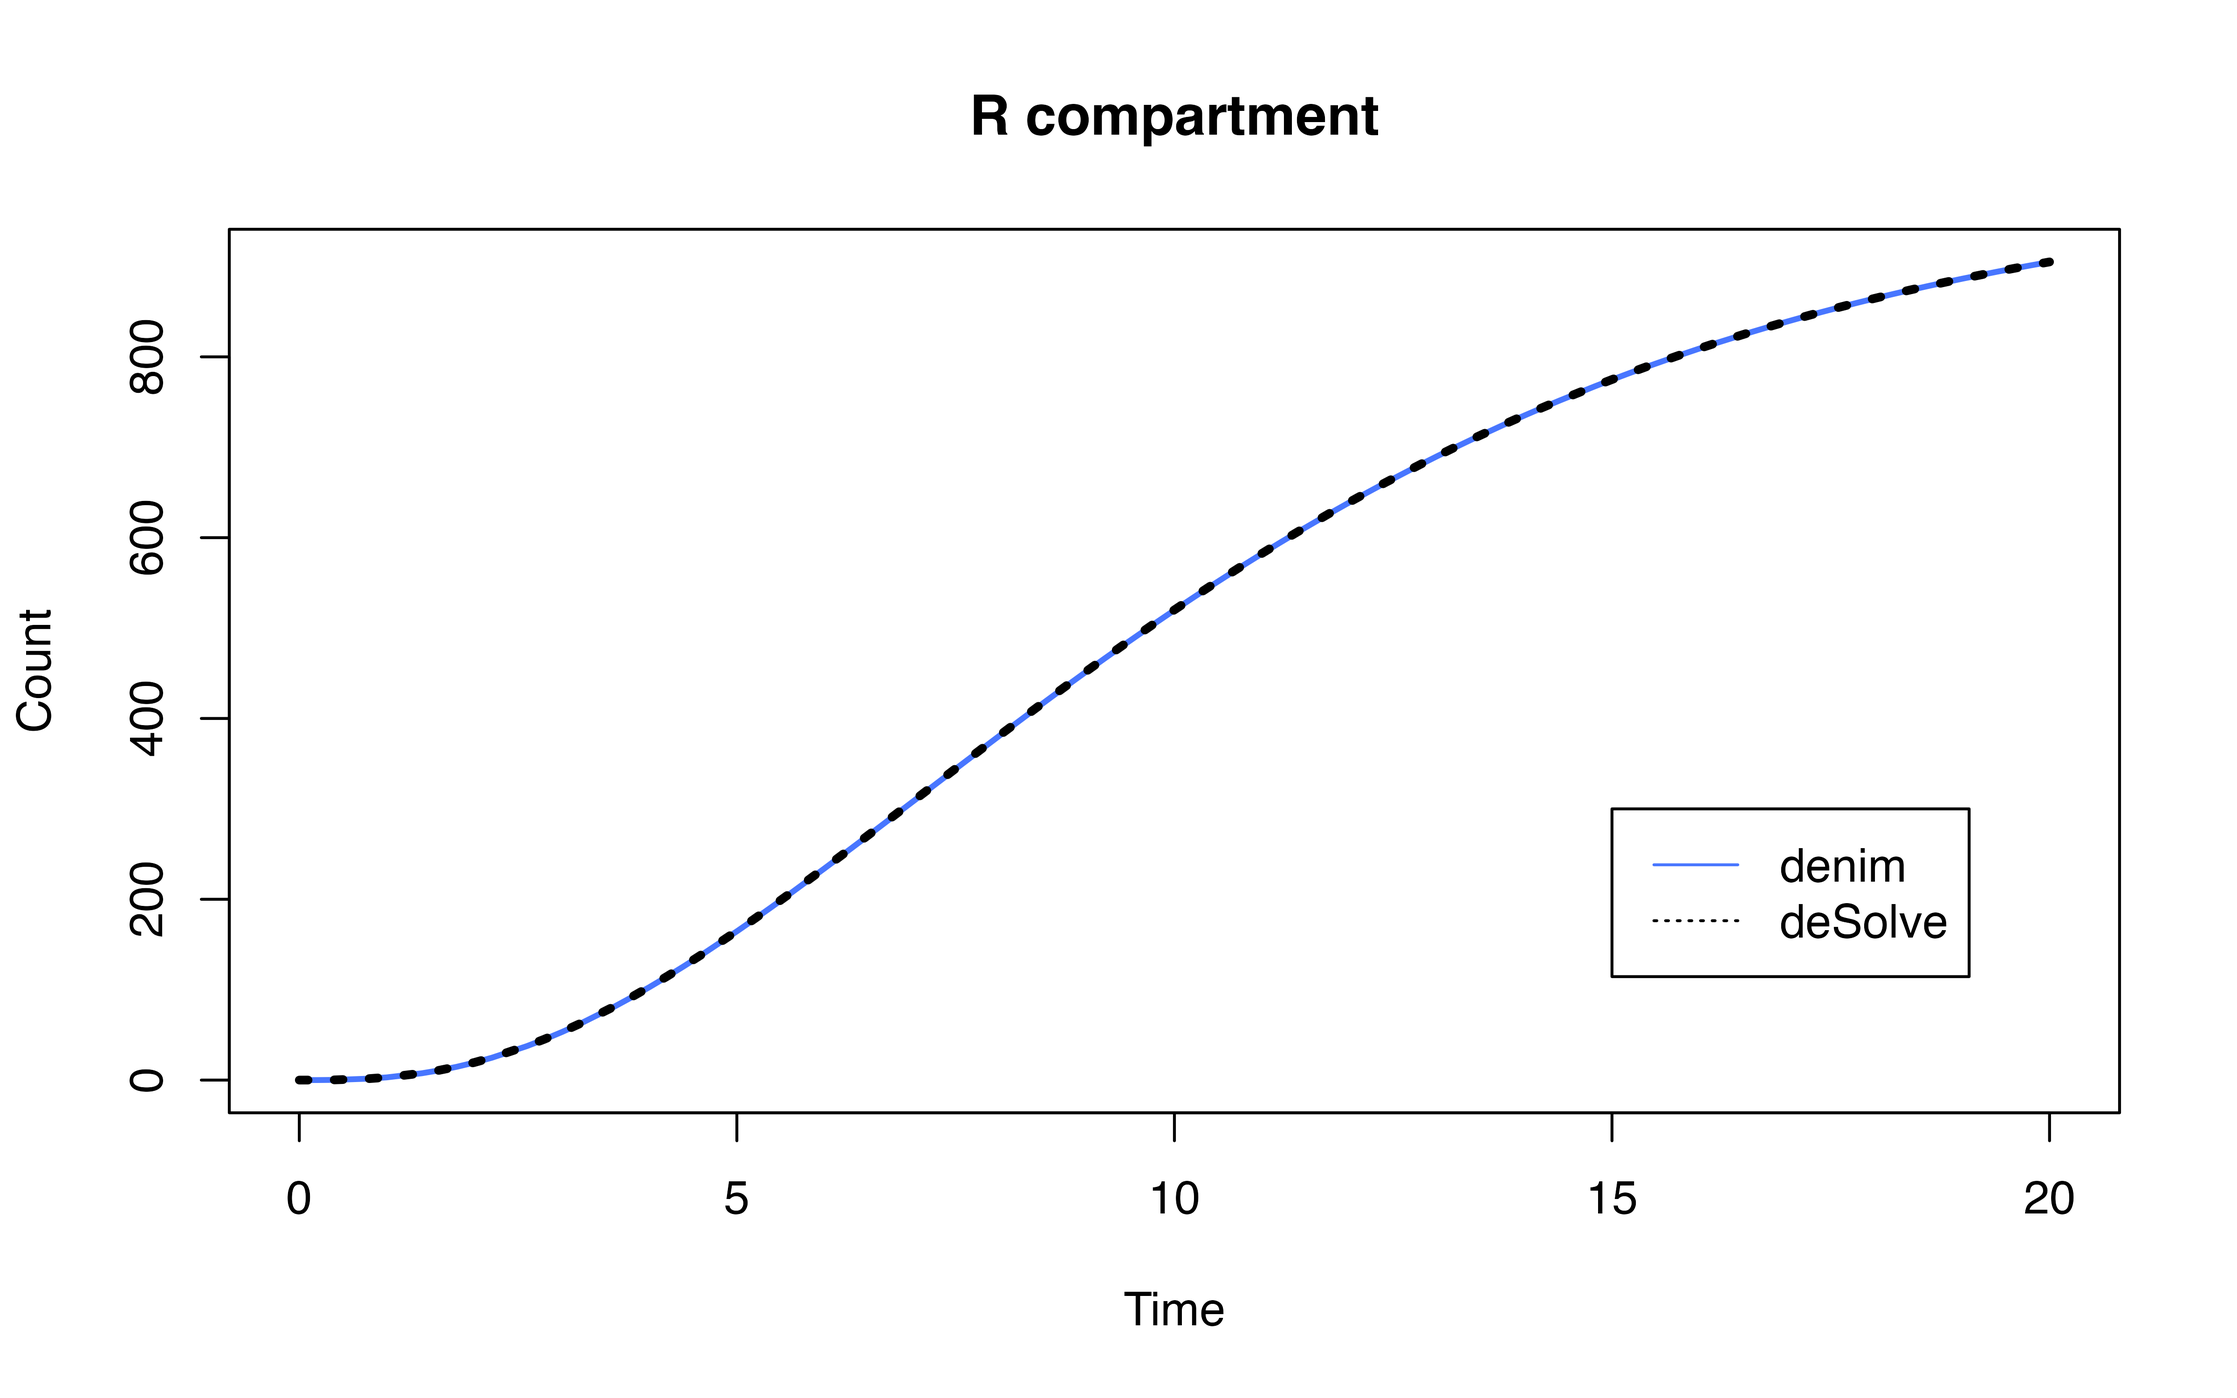
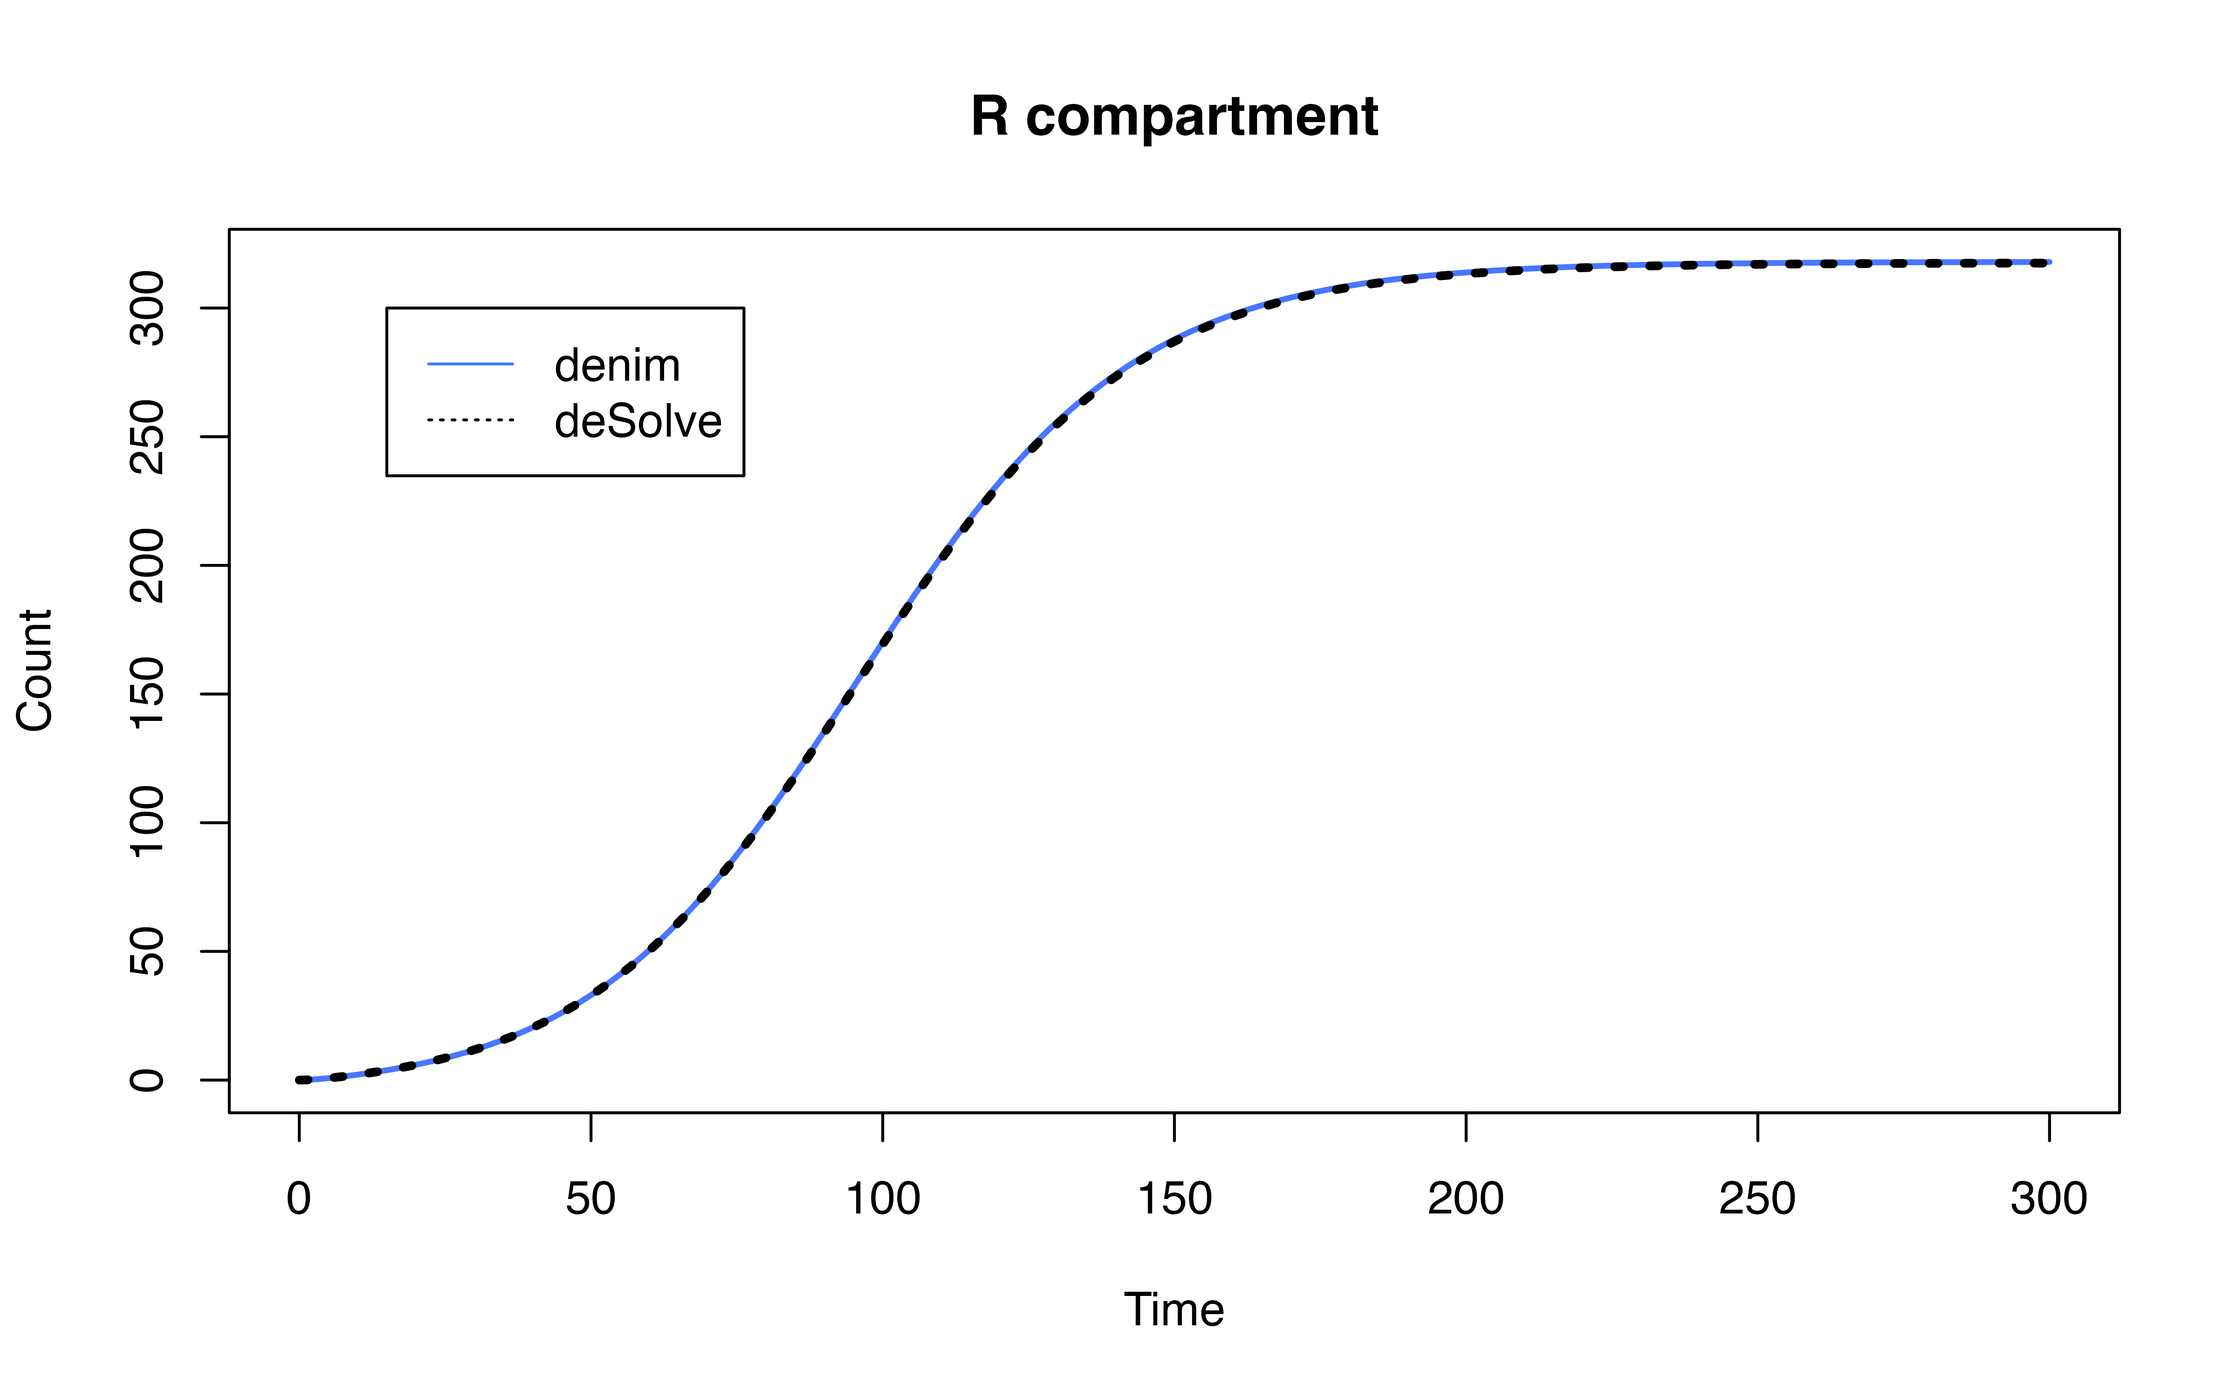
update example model

diff --git a/docs/articles/denim_vs_deSolve.html b/docs/articles/denim_vs_deSolve.html
@@ -52,7 +52,7 @@
   <a href="#" class="nav-link dropdown-toggle" data-bs-toggle="dropdown" role="button" aria-expanded="false" aria-haspopup="true" id="dropdown-articles">Articles</a>
   <div class="dropdown-menu" aria-labelledby="dropdown-articles">
     <a class="dropdown-item" href="../articles/denim_vs_deSolve.html">denim vs deSolve</a>
-    <a class="dropdown-item" href="../articles/denim_vs_uSEIR.html">denim vs uSEIR</a>
+    <a class="dropdown-item" href="../articles/denim_vs_uSEIR.html">denim benchmark</a>
     <div class="dropdown-divider"></div>
     <h6 class="dropdown-header" data-toc-skip>migrate to denim</h6>
     <a class="dropdown-item" href="../articles/deSolve_to_denim.html">Migrate to denim</a>
@@ -105,31 +105,32 @@ testing</p>
 <span><span class="kw"><a href="https://rdrr.io/r/base/library.html" class="external-link">library</a></span><span class="op">(</span><span class="va"><a href="http://desolve.r-forge.r-project.org/" class="external-link">deSolve</a></span><span class="op">)</span></span></code></pre></div>
 <pre><code><span><span class="co">## Warning: package 'deSolve' was built under R version 4.3.1</span></span></code></pre>
 <div class="sourceCode" id="cb3"><pre class="downlit sourceCode r">
-<code class="sourceCode R"><span><span class="co"># --- Transition def for denim</span></span>
+<code class="sourceCode R"><span><span class="co"># --- Timestep definition</span></span>
+<span><span class="va">simulationDuration</span> <span class="op">&lt;-</span> <span class="fl">300</span> </span>
+<span><span class="va">timestep</span> <span class="op">&lt;-</span> <span class="fl">0.01</span> <span class="co"># small timestep required for comparison</span></span>
+<span></span>
+<span><span class="co"># --- Transition def for denim</span></span>
 <span><span class="va">transitions</span> <span class="op">&lt;-</span> <span class="fu"><a href="https://rdrr.io/r/base/list.html" class="external-link">list</a></span><span class="op">(</span></span>
-<span>  <span class="st">"S -&gt; I"</span> <span class="op">=</span> <span class="fu"><a href="../reference/d_exponential.html">d_exponential</a></span><span class="op">(</span><span class="fl">0.2</span><span class="op">)</span>,</span>
+<span>  <span class="st">"S -&gt; I"</span> <span class="op">=</span> <span class="st">"beta * S * (I/N) * timestepDur"</span>,</span>
 <span>  <span class="st">"I -&gt; R"</span> <span class="op">=</span> <span class="fu"><a href="../reference/d_gamma.html">d_gamma</a></span><span class="op">(</span><span class="fl">3</span>, <span class="fl">2</span><span class="op">)</span></span>
 <span><span class="op">)</span></span>
-<span><span class="va">parameters</span> <span class="op">&lt;-</span> <span class="fu"><a href="https://rdrr.io/r/base/c.html" class="external-link">c</a></span><span class="op">(</span>rate <span class="op">=</span> <span class="fl">0.2</span>, scale <span class="op">=</span> <span class="fl">3</span>, shape<span class="op">=</span><span class="fl">2</span><span class="op">)</span> </span>
+<span><span class="va">parameters</span> <span class="op">&lt;-</span> <span class="fu"><a href="https://rdrr.io/r/base/c.html" class="external-link">c</a></span><span class="op">(</span>beta <span class="op">=</span> <span class="fl">0.2</span>, scale <span class="op">=</span> <span class="fl">3</span>, shape<span class="op">=</span><span class="fl">2</span>, N<span class="op">=</span><span class="fl">1000</span>, timestepDur<span class="op">=</span><span class="va">timestep</span><span class="op">)</span> </span>
 <span><span class="va">initialValues</span> <span class="op">&lt;-</span> <span class="fu"><a href="https://rdrr.io/r/base/c.html" class="external-link">c</a></span><span class="op">(</span>S <span class="op">=</span> <span class="fl">999</span>, I <span class="op">=</span> <span class="fl">1</span>, I1 <span class="op">=</span> <span class="fl">1</span>, I2<span class="op">=</span><span class="fl">0</span>, R<span class="op">=</span><span class="fl">0</span><span class="op">)</span></span>
 <span></span>
 <span><span class="co"># --- Transition def for deSolve</span></span>
 <span><span class="va">transition_func</span> <span class="op">&lt;-</span> <span class="kw">function</span><span class="op">(</span><span class="va">t</span>, <span class="va">state</span>, <span class="va">param</span><span class="op">)</span><span class="op">{</span></span>
 <span>  <span class="fu"><a href="https://rdrr.io/r/base/with.html" class="external-link">with</a></span><span class="op">(</span><span class="fu"><a href="https://rdrr.io/r/base/list.html" class="external-link">as.list</a></span><span class="op">(</span> <span class="fu"><a href="https://rdrr.io/r/base/c.html" class="external-link">c</a></span><span class="op">(</span><span class="va">state</span>, <span class="va">param</span><span class="op">)</span> <span class="op">)</span>, <span class="op">{</span></span>
 <span>      <span class="va">gamma_rate</span> <span class="op">=</span> <span class="fl">1</span><span class="op">/</span><span class="va">scale</span></span>
-<span>      <span class="va">dS</span> <span class="op">=</span> <span class="op">-</span><span class="va">rate</span><span class="op">*</span><span class="va">S</span></span>
+<span>      </span>
+<span>      <span class="va">dS</span> <span class="op">=</span> <span class="op">-</span> <span class="va">beta</span> <span class="op">*</span> <span class="va">S</span> <span class="op">*</span> <span class="va">I</span><span class="op">/</span><span class="va">N</span></span>
 <span>      <span class="co"># apply linear chain trick</span></span>
-<span>      <span class="va">dI1</span> <span class="op">=</span> <span class="va">rate</span><span class="op">*</span><span class="va">S</span> <span class="op">-</span> <span class="va">gamma_rate</span><span class="op">*</span><span class="va">I1</span></span>
+<span>      <span class="va">dI1</span> <span class="op">=</span> <span class="va">beta</span> <span class="op">*</span> <span class="va">S</span> <span class="op">*</span> <span class="va">I</span><span class="op">/</span><span class="va">N</span> <span class="op">-</span> <span class="va">gamma_rate</span><span class="op">*</span><span class="va">I1</span></span>
 <span>      <span class="va">dI2</span> <span class="op">=</span> <span class="va">gamma_rate</span><span class="op">*</span><span class="va">I1</span> <span class="op">-</span> <span class="va">gamma_rate</span><span class="op">*</span><span class="va">I2</span></span>
 <span>      <span class="va">dI</span> <span class="op">=</span>  <span class="va">dI1</span> <span class="op">+</span> <span class="va">dI2</span></span>
 <span>      <span class="va">dR</span> <span class="op">=</span> <span class="va">gamma_rate</span><span class="op">*</span><span class="va">I2</span></span>
 <span>      <span class="fu"><a href="https://rdrr.io/r/base/list.html" class="external-link">list</a></span><span class="op">(</span><span class="fu"><a href="https://rdrr.io/r/base/c.html" class="external-link">c</a></span><span class="op">(</span><span class="va">dS</span>, <span class="va">dI</span>, <span class="va">dI1</span>, <span class="va">dI2</span>, <span class="va">dR</span><span class="op">)</span><span class="op">)</span></span>
 <span>  <span class="op">}</span><span class="op">)</span></span>
-<span><span class="op">}</span></span>
-<span></span>
-<span><span class="co"># --- Timestep definition</span></span>
-<span><span class="va">simulationDuration</span> <span class="op">&lt;-</span> <span class="fl">20</span> </span>
-<span><span class="va">timestep</span> <span class="op">&lt;-</span> <span class="fl">0.01</span> <span class="co"># small timestep required for comparison</span></span></code></pre></div>
+<span><span class="op">}</span></span></code></pre></div>
 <div class="section level3">
 <h3 id="run-simulation-with-denim">Run simulation with denim<a class="anchor" aria-label="anchor" href="#run-simulation-with-denim"></a>
 </h3>
@@ -141,12 +142,12 @@ testing</p>
 <span><span class="co"># --- show output</span></span>
 <span><span class="fu"><a href="https://rdrr.io/r/utils/head.html" class="external-link">head</a></span><span class="op">(</span><span class="va">mod</span><span class="op">[</span><span class="va">mod</span><span class="op">$</span><span class="va">Time</span> <span class="op"><a href="https://rdrr.io/r/base/match.html" class="external-link">%in%</a></span> <span class="fl">1</span><span class="op">:</span><span class="va">simulationDuration</span>,<span class="op">]</span><span class="op">)</span></span></code></pre></div>
 <pre><code><span><span class="co">##     Time        S        I          R</span></span>
-<span><span class="co">## 101    1 817.9120 179.1000   2.987976</span></span>
-<span><span class="co">## 201    2 669.6497 310.9933  19.356938</span></span>
-<span><span class="co">## 301    3 548.2628 398.6234  53.113777</span></span>
-<span><span class="co">## 401    4 448.8796 448.3469 102.773515</span></span>
-<span><span class="co">## 501    5 367.5116 467.9487 164.539700</span></span>
-<span><span class="co">## 601    6 300.8930 465.0545 234.052532</span></span></code></pre>
+<span><span class="co">## 101    1 998.7825 1.169597 0.04786644</span></span>
+<span><span class="co">## 201    2 998.5358 1.296591 0.16756473</span></span>
+<span><span class="co">## 301    3 998.2665 1.399083 0.33440701</span></span>
+<span><span class="co">## 401    4 997.9783 1.487980 0.53374794</span></span>
+<span><span class="co">## 501    5 997.6732 1.569868 0.75697598</span></span>
+<span><span class="co">## 601    6 997.3521 1.648745 0.99910771</span></span></code></pre>
 </div>
 <div class="section level3">
 <h3 id="run-simulation-with-desolve">Run simulation with deSolve<a class="anchor" aria-label="anchor" href="#run-simulation-with-desolve"></a>
@@ -161,18 +162,18 @@ testing</p>
 <span><span class="co"># --- show output</span></span>
 <span><span class="va">ode_mod</span> <span class="op">&lt;-</span> <span class="fu"><a href="https://rdrr.io/r/base/as.data.frame.html" class="external-link">as.data.frame</a></span><span class="op">(</span><span class="va">ode_mod</span><span class="op">)</span></span>
 <span><span class="fu"><a href="https://rdrr.io/r/utils/head.html" class="external-link">head</a></span><span class="op">(</span><span class="va">ode_mod</span><span class="op">[</span><span class="va">ode_mod</span><span class="op">$</span><span class="va">time</span> <span class="op"><a href="https://rdrr.io/r/base/match.html" class="external-link">%in%</a></span> <span class="fl">1</span><span class="op">:</span><span class="va">simulationDuration</span>, <span class="fu"><a href="https://rdrr.io/r/base/c.html" class="external-link">c</a></span><span class="op">(</span><span class="st">"time"</span>, <span class="st">"S"</span>, <span class="st">"I"</span>, <span class="st">"R"</span><span class="op">)</span><span class="op">]</span><span class="op">)</span></span></code></pre></div>
-<pre><code><span><span class="co">##     time        S        I          R</span></span>
-<span><span class="co">## 101    1 817.9120 179.0585   3.029466</span></span>
-<span><span class="co">## 201    2 669.6497 310.8686  19.481654</span></span>
-<span><span class="co">## 301    3 548.2628 398.4125  53.324630</span></span>
-<span><span class="co">## 401    4 448.8796 448.0650 103.055392</span></span>
-<span><span class="co">## 501    5 367.5116 467.6172 164.871207</span></span>
-<span><span class="co">## 601    6 300.8930 464.6948 234.412204</span></span></code></pre>
+<pre><code><span><span class="co">##     time        S        I         R</span></span>
+<span><span class="co">## 101    1 998.7824 1.169731 0.0479167</span></span>
+<span><span class="co">## 201    2 998.5355 1.296752 0.1677463</span></span>
+<span><span class="co">## 301    3 998.2660 1.399189 0.3347737</span></span>
+<span><span class="co">## 401    4 997.9777 1.487967 0.5343309</span></span>
+<span><span class="co">## 501    5 997.6725 1.569688 0.7577887</span></span>
+<span><span class="co">## 601    6 997.3515 1.648357 1.0001499</span></span></code></pre>
 </div>
 <div class="section level3">
 <h3 id="execution-time-comparison">Execution time comparison<a class="anchor" aria-label="anchor" href="#execution-time-comparison"></a>
 </h3>
-<p><code>denim</code> takes approximately 5.36 times as long as
+<p><code>denim</code> takes approximately 4.07 times as long as
 <code>deSolve</code> to compute the result with the given specifications
 .</p>
 <p>This significant difference can be attributed to the difference in

diff --git a/docs/authors.html b/docs/authors.html
@@ -28,7 +28,7 @@
   <a href="#" class="nav-link dropdown-toggle" data-bs-toggle="dropdown" role="button" aria-expanded="false" aria-haspopup="true" id="dropdown-articles">Articles</a>
   <div class="dropdown-menu" aria-labelledby="dropdown-articles">
     <a class="dropdown-item" href="articles/denim_vs_deSolve.html">denim vs deSolve</a>
-    <a class="dropdown-item" href="articles/denim_vs_uSEIR.html">denim vs uSEIR</a>
+    <a class="dropdown-item" href="articles/denim_vs_uSEIR.html">denim benchmark</a>
     <div class="dropdown-divider"></div>
     <h6 class="dropdown-header" data-toc-skip>migrate to denim</h6>
     <a class="dropdown-item" href="articles/deSolve_to_denim.html">Migrate to denim</a>
@@ -93,7 +93,7 @@
       <h2 id="citation">Citation</h2>
       <p><small class="dont-index">Source: <a href="https://github.com/thinhong/denim/blob/HEAD/DESCRIPTION" class="external-link"><code>DESCRIPTION</code></a></small></p>
 
-      <p>Ong T, Phan A, Choisy M (2024).
+      <p>Ong T, Phan A, Choisy M (2025).
 <em>denim: Generate and Simulate Deterministic Discrete-Time Compartmental Models</em>.
 https://drthinhong.com/denim/,
 https://github.com/thinhong/denim. 
@@ -101,7 +101,7 @@ https://github.com/thinhong/denim.
       <pre>@Manual{,
   title = {denim: Generate and Simulate Deterministic Discrete-Time Compartmental Models},
   author = {Thinh Ong and Anh Phan and Marc Choisy},
-  year = {2024},
+  year = {2025},
   note = {https://drthinhong.com/denim/,
 https://github.com/thinhong/denim},
 }</pre>

diff --git a/docs/LICENSE-text.html b/docs/LICENSE-text.html
@@ -28,7 +28,7 @@
   <a href="#" class="nav-link dropdown-toggle" data-bs-toggle="dropdown" role="button" aria-expanded="false" aria-haspopup="true" id="dropdown-articles">Articles</a>
   <div class="dropdown-menu" aria-labelledby="dropdown-articles">
     <a class="dropdown-item" href="articles/denim_vs_deSolve.html">denim vs deSolve</a>
-    <a class="dropdown-item" href="articles/denim_vs_uSEIR.html">denim vs uSEIR</a>
+    <a class="dropdown-item" href="articles/denim_vs_uSEIR.html">denim benchmark</a>
     <div class="dropdown-divider"></div>
     <h6 class="dropdown-header" data-toc-skip>migrate to denim</h6>
     <a class="dropdown-item" href="articles/deSolve_to_denim.html">Migrate to denim</a>

diff --git a/docs/LICENSE.html b/docs/LICENSE.html
@@ -28,7 +28,7 @@
   <a href="#" class="nav-link dropdown-toggle" data-bs-toggle="dropdown" role="button" aria-expanded="false" aria-haspopup="true" id="dropdown-articles">Articles</a>
   <div class="dropdown-menu" aria-labelledby="dropdown-articles">
     <a class="dropdown-item" href="articles/denim_vs_deSolve.html">denim vs deSolve</a>
-    <a class="dropdown-item" href="articles/denim_vs_uSEIR.html">denim vs uSEIR</a>
+    <a class="dropdown-item" href="articles/denim_vs_uSEIR.html">denim benchmark</a>
     <div class="dropdown-divider"></div>
     <h6 class="dropdown-header" data-toc-skip>migrate to denim</h6>
     <a class="dropdown-item" href="articles/deSolve_to_denim.html">Migrate to denim</a>
